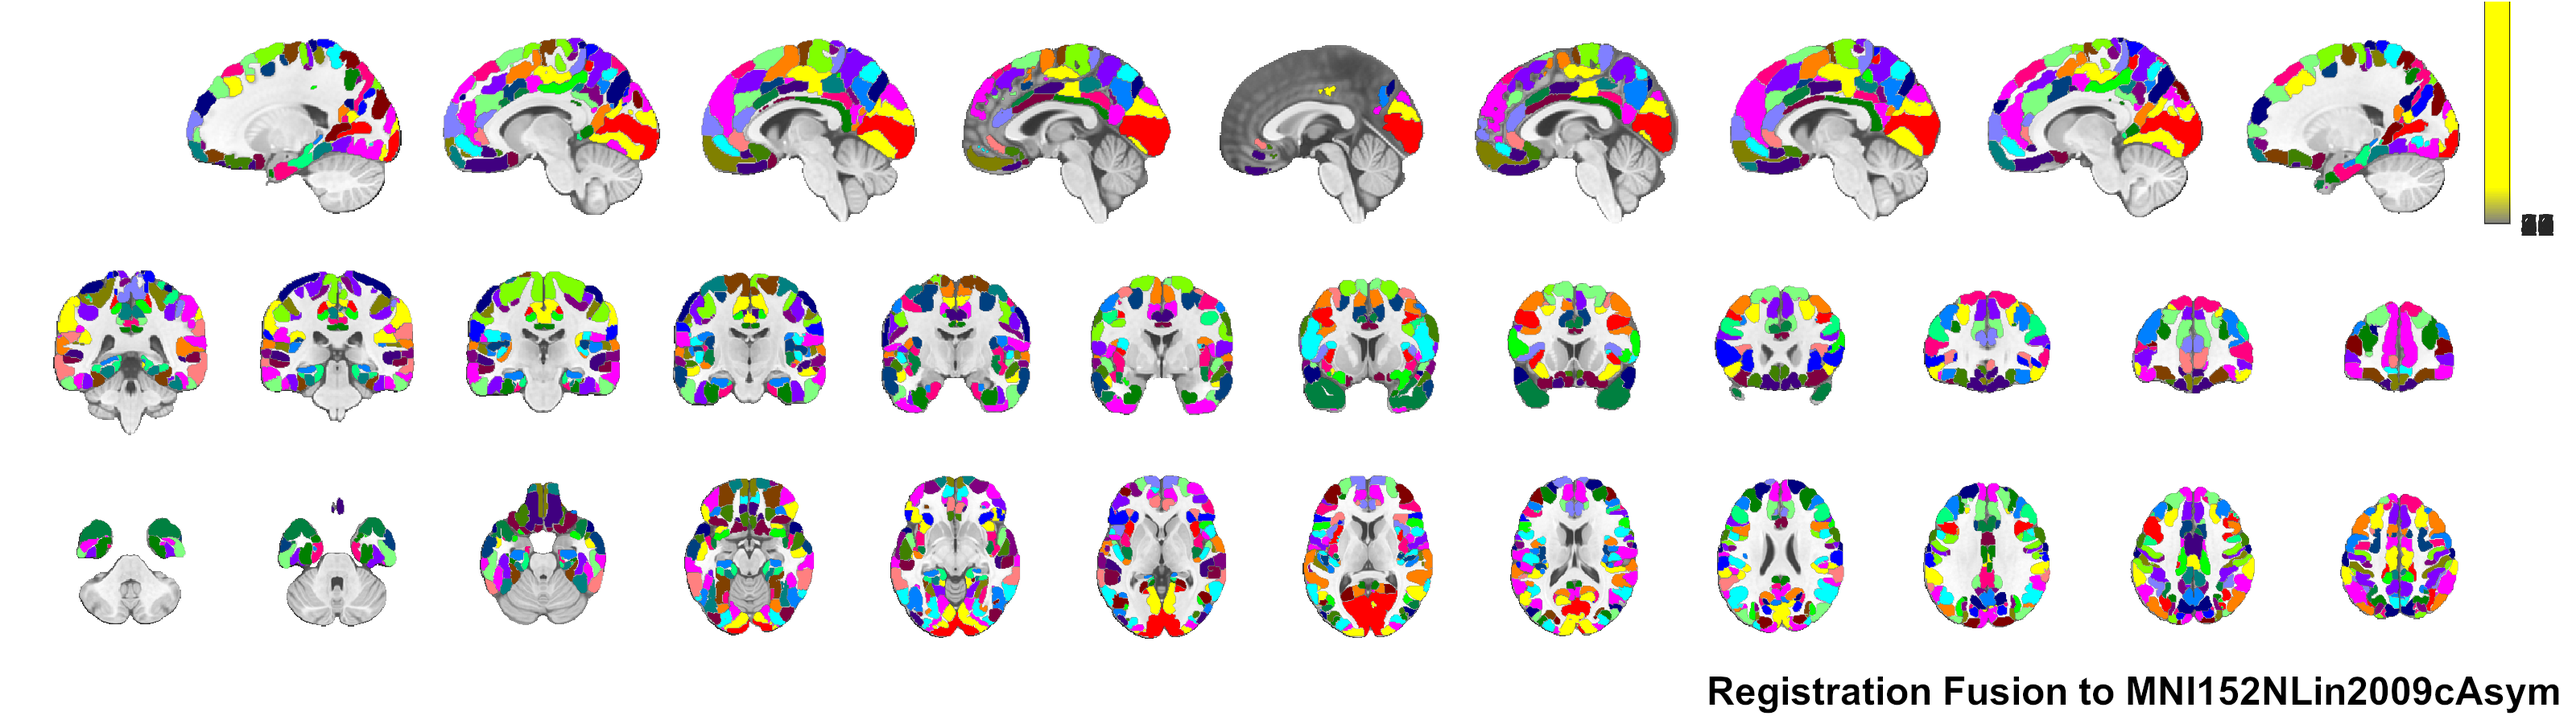
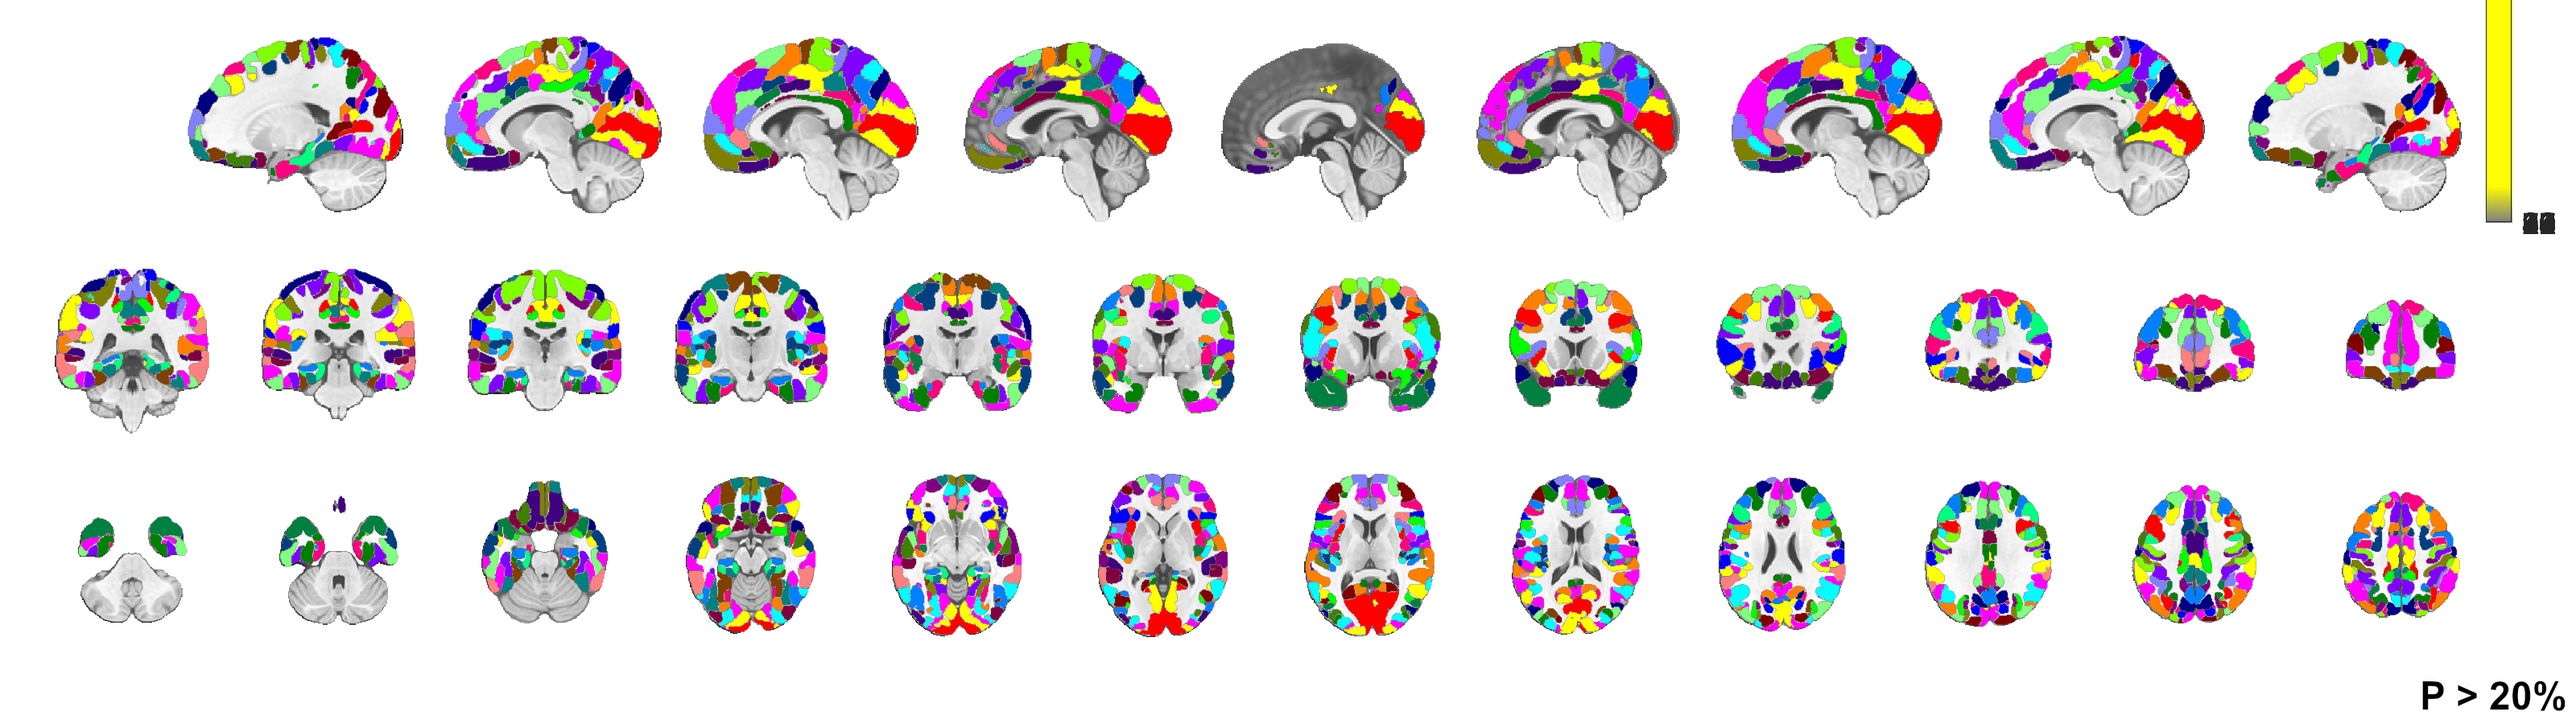
Added probability maps

diff --git a/Atlases_and_parcellations/2016_Glasser_Nature_HumanConnectomeParcellation/README.md b/Atlases_and_parcellations/2016_Glasser_Nature_HumanConnectomeParcellation/README.md
@@ -49,6 +49,8 @@ To my knowledge Glasser et al. have not published their subject specific region 
 but I think subject specific parcellations may be avialable from the HCP dataset, and might provide an avenue 
 towards an improved version of this atlas.
 
+![Different probability thresholds](diagnostics/gifs/MNI152NLin2009cAsym_20_50_80_prob.gif)
+
 ### Methods
 
 Mappings were created using "registration fusion". Projections from native space to fsaverage spherical surfaces
